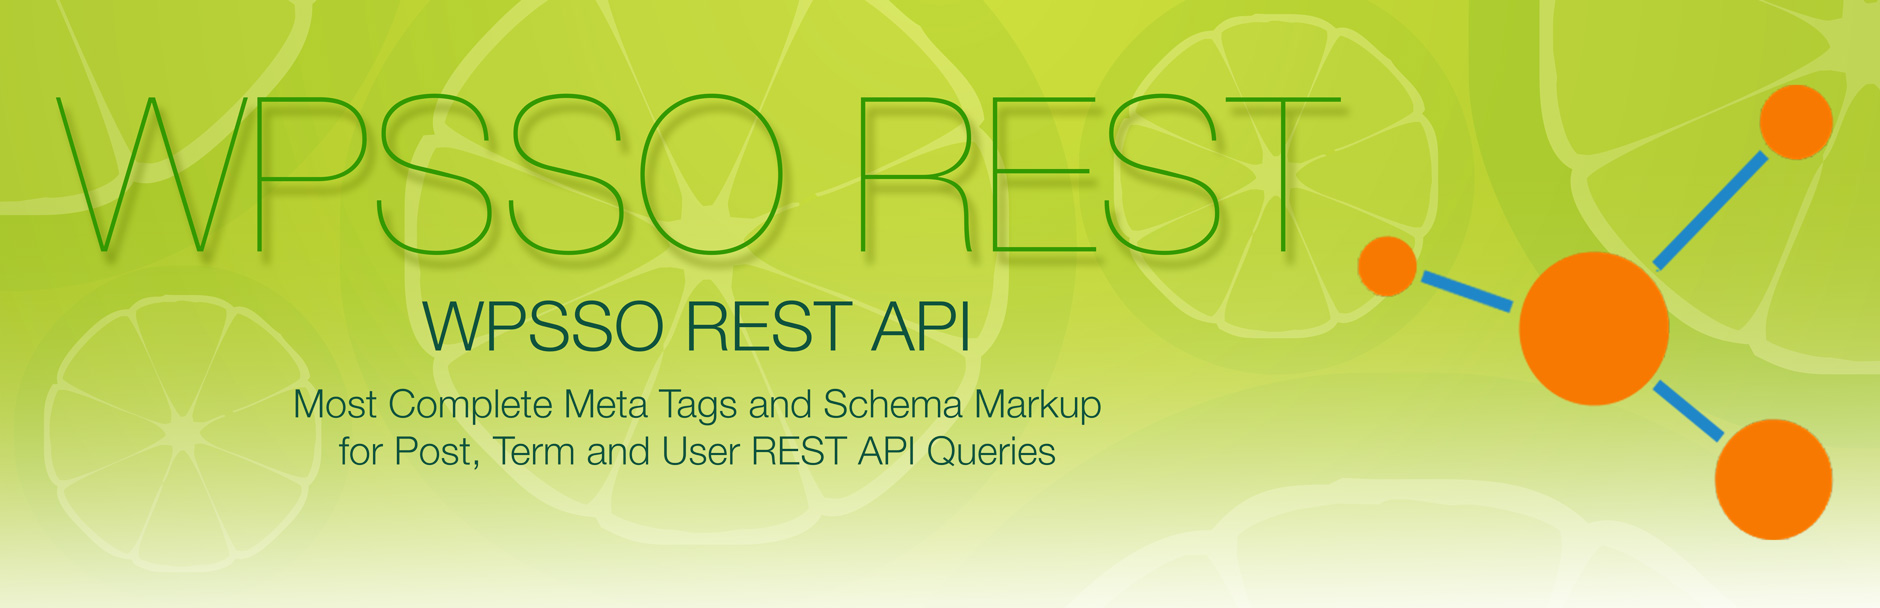
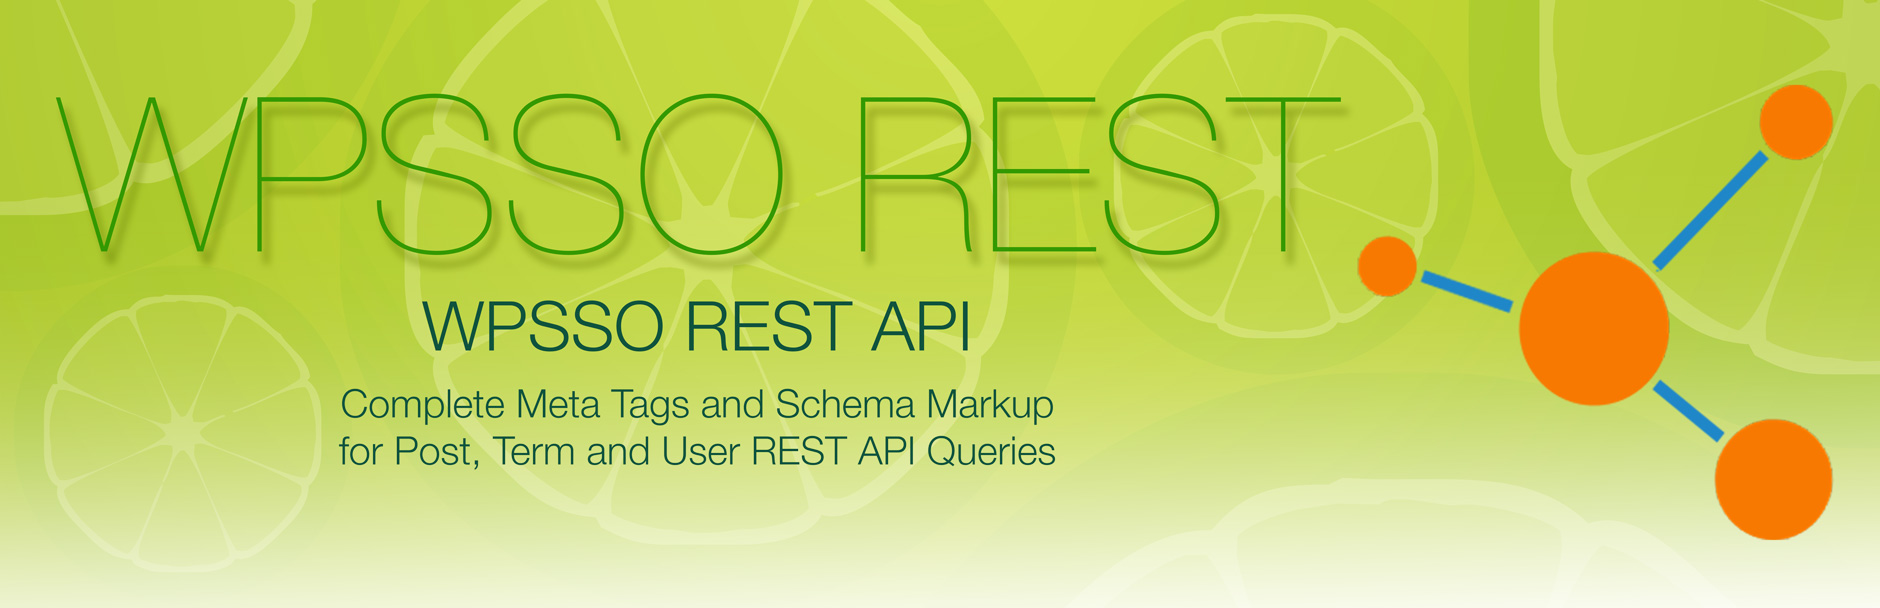
non-essential support files (documentation and assets)

Changed region(s): [[0.1543, 0.625, 0.5862, 0.6875]]

diff --git a/index.html b/index.html
@@ -25,7 +25,7 @@
         </ul>
       </header>
       <section>
-<h1>WPSSO REST API</h1><h3>Most Complete Meta Tags and Schema Markup for Post, Term, and User REST API Queries</h3>
+<h1>WPSSO REST API</h1><h3>Complete Meta Tags and Schema Markup for Post, Term, and User REST API Queries</h3>
 
 <table>
 <tr><th align="right" valign="top" nowrap>Plugin Name</th><td>WPSSO REST API</td></tr>
